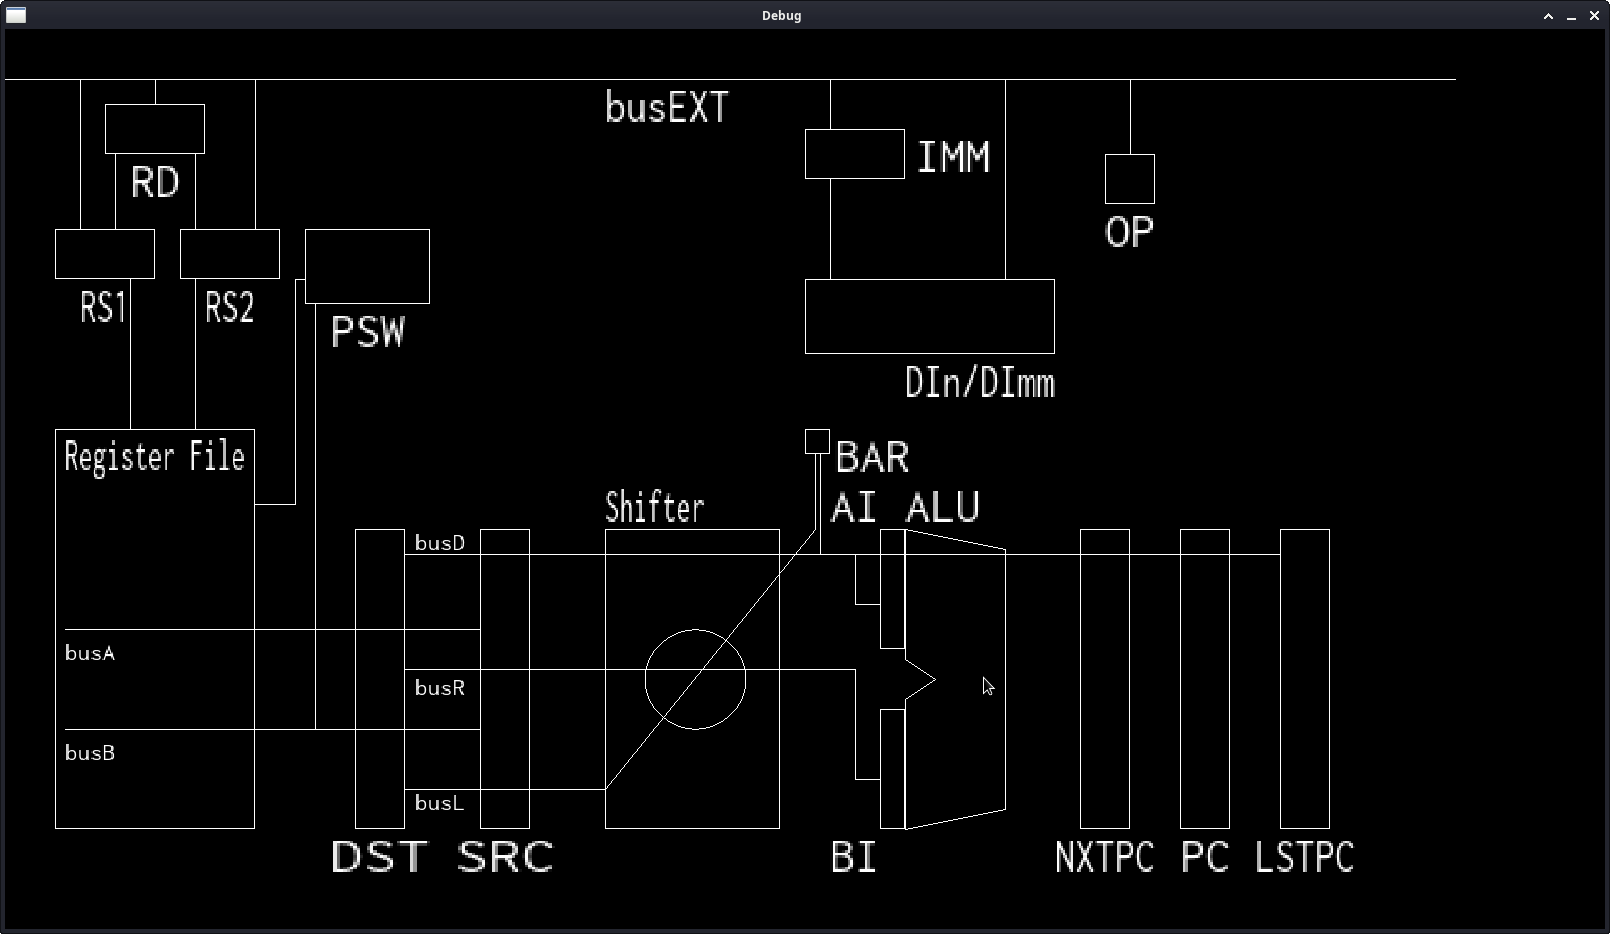
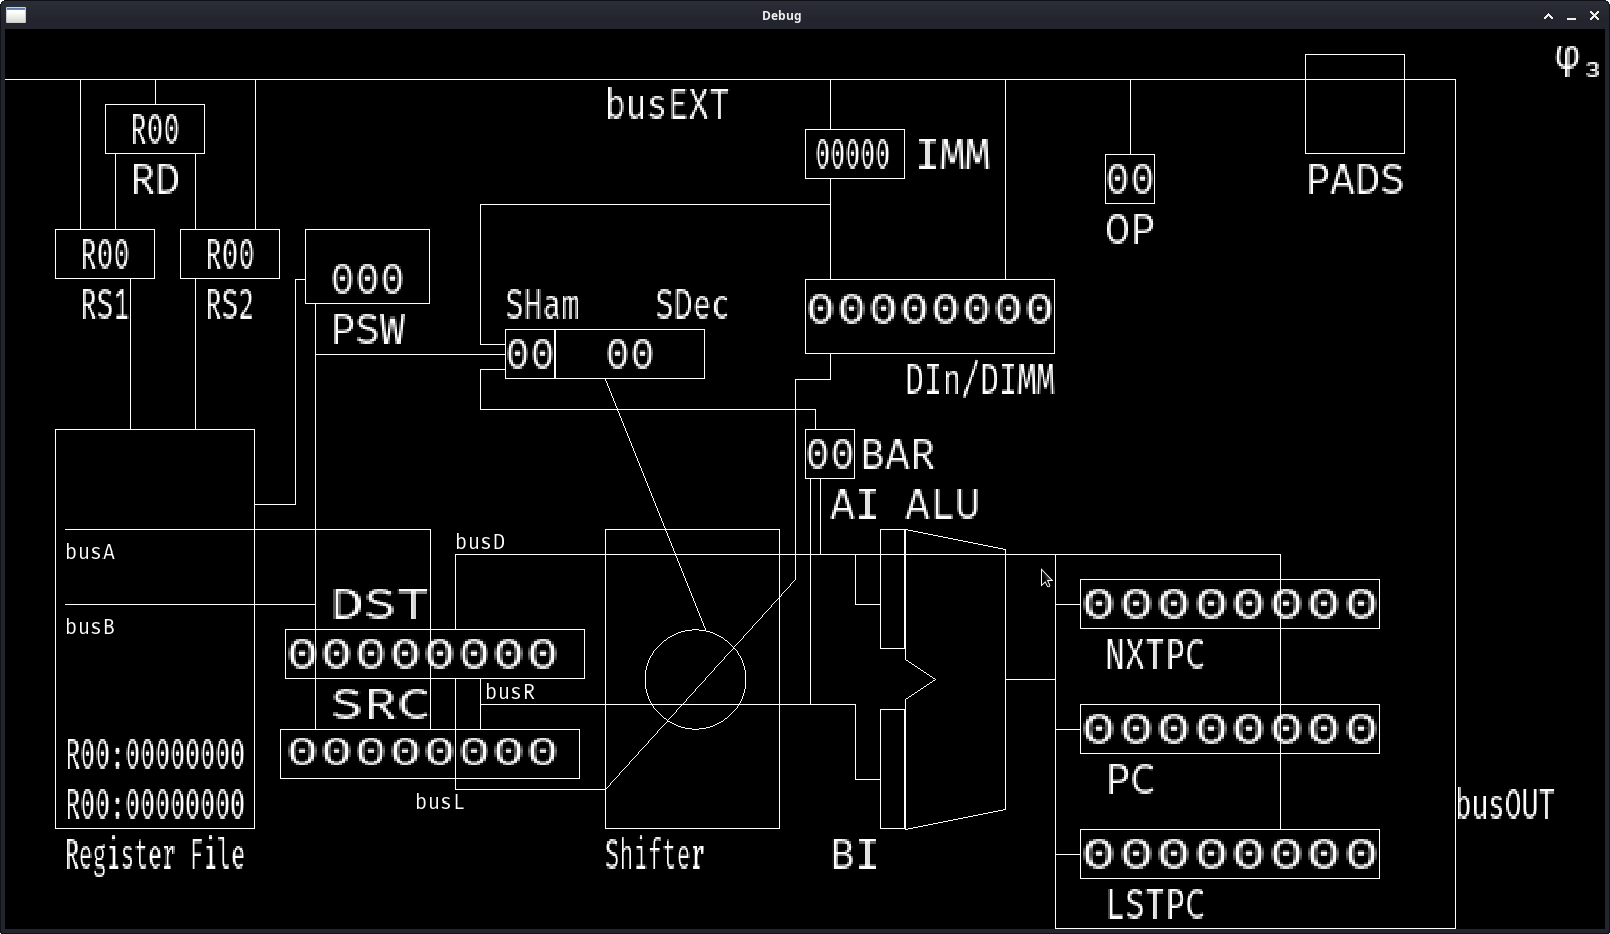
Delete main window and update debug window screensho

diff --git a/src/main.rs b/src/main.rs
@@ -38,7 +38,6 @@ pub mod sdl;
 pub mod shifter;
 pub mod system;
 pub mod util;
-pub mod window;
 
 use config::Config;
 use debug_window::DebugWindow;
@@ -48,7 +47,6 @@ use std::cell::RefCell;
 use std::error::Error;
 use std::rc::Rc;
 use system::System;
-use window::MainWindow;
 
 // Struct/enum declarations.
 
@@ -58,14 +56,9 @@ enum GlobalAction {
     CloseDebugWindow,
 }
 
-fn handle_events(
-    context: &mut Context,
-    win: &mut MainWindow,
-    debug_window: &mut Option<DebugWindow>,
-) -> GlobalAction {
+fn handle_events(context: &mut Context, debug_window: &mut DebugWindow) -> GlobalAction {
     let event_pump = &mut context.event_pump;
     let mut result = GlobalAction::None;
-    let main_win_id = win.get_window_id();
     for event in event_pump.poll_iter() {
         match event {
             Event::Quit { .. } => {
@@ -73,48 +66,19 @@ fn handle_events(
             }
             Event::Window {
                 win_event: WindowEvent::Close,
-                window_id: id,
                 ..
             } => {
-                if id == main_win_id {
-                    return GlobalAction::QuitProgram;
-                } else if let Some(dwin) = debug_window {
-                    if dwin.get_window_id() == id {
-                        result = GlobalAction::CloseDebugWindow;
-                        continue;
-                    }
-                }
-                eprintln!("Close for window id {}, but it does not exist!", id);
+                return GlobalAction::QuitProgram;
             }
             Event::KeyDown {
-                keycode: Some(kc),
-                window_id: id,
-                ..
+                keycode: Some(kc), ..
             } => {
-                if id == main_win_id {
-                    win.handle_key_down(kc);
-                } else if let Some(dwin) = debug_window {
-                    if dwin.get_window_id() == id {
-                        dwin.handle_key_down(kc);
-                        continue;
-                    }
-                }
-                eprintln!("Keydown event for window id {}, but it does not exist!", id);
+                debug_window.handle_key_down(kc);
             }
             Event::KeyUp {
-                keycode: Some(kc),
-                window_id: id,
-                ..
+                keycode: Some(kc), ..
             } => {
-                if id == main_win_id {
-                    win.handle_key_up(kc);
-                } else if let Some(dwin) = debug_window {
-                    if dwin.get_window_id() == id {
-                        dwin.handle_key_up(kc);
-                        continue;
-                    }
-                }
-                eprintln!("Keyup event for window id {}, but it does not exist!", id);
+                debug_window.handle_key_up(kc);
             }
             _ => {}
         }
@@ -135,7 +99,6 @@ fn main() -> Result<(), Box<dyn Error>> {
     let mut sdl_context = Context::new()?;
     let mut font_context = make_font_context()?;
 
-    let mut main_window = MainWindow::new(&config, system.clone(), &mut sdl_context)?;
     let mut debug_window = if config.is_debug_mode() {
         Some(DebugWindow::new(
             &config,
@@ -148,23 +111,22 @@ fn main() -> Result<(), Box<dyn Error>> {
     };
 
     'running: loop {
-        match { handle_events(&mut sdl_context, &mut main_window, &mut debug_window) } {
-            GlobalAction::QuitProgram => {
-                break 'running;
-            }
-            GlobalAction::CloseDebugWindow => {
-                debug_window = None;
-            }
-            _ => {}
-        }
         system.borrow_mut().tick();
         debug_window = if let Some(mut win) = debug_window {
+            match { handle_events(&mut sdl_context, &mut win) } {
+                GlobalAction::QuitProgram => {
+                    break 'running;
+                }
+                GlobalAction::CloseDebugWindow => {
+                    debug_window = None;
+                }
+                _ => {}
+            }
             win.draw(&mut sdl_context)?;
             Some(win)
         } else {
             None
         };
-        main_window.draw(&mut sdl_context)?;
     }
     Ok(())
 }
